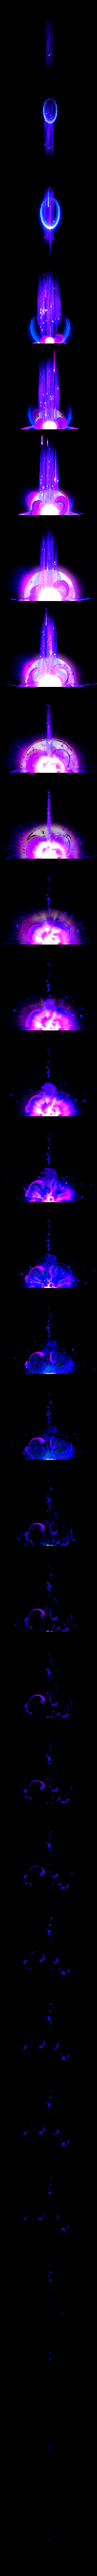
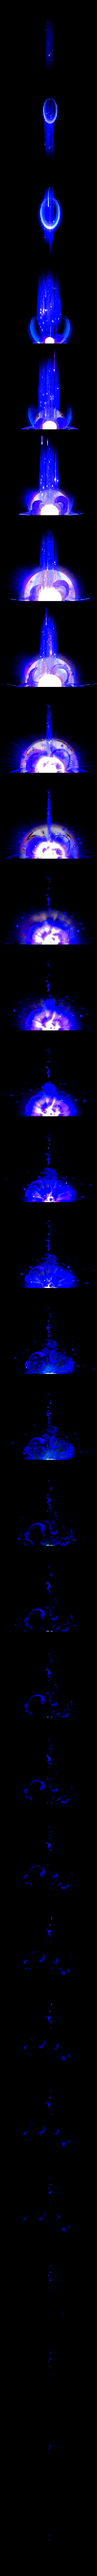
edits

Changed region(s): [[0.15, 0.0, 0.87, 0.5302]]

diff --git a/Content/Areas/Tundra/Abyss/BossesAB/VerlianSingularity/VerlianSingularity.cs b/Content/Areas/Tundra/Abyss/BossesAB/VerlianSingularity/VerlianSingularity.cs
@@ -8,6 +8,7 @@ using Stellamod.Core;
 using Stellamod.Core.Camera;
 using Stellamod.Core.Particles;
 using Stellamod.Core.Pixelation;
+using Stellamod.Core.Rendering.RTs;
 using Stellamod.Helpers;
 using Stellamod.Projectiles.Wings;
 using Stellamod.Skies;
@@ -223,8 +224,10 @@ namespace Stellamod.Content.Areas.Tundra.Abyss.BossesAB.VerlianSingularity
         }
 
         private int ShootingStarDamage => 15;
-        private int SpiralStarDamage => 11;
-        private int SingularityBoom => 32;
+        private int SpiralStarDamage => 14;
+        private int SingularityBoom => 46;
+        private int MiniSingularityBoom => 22;
+
         private int BlackLightningDamage => 20;
         private int BerserkLaserDamage => 50;
 
@@ -306,7 +309,15 @@ namespace Stellamod.Content.Areas.Tundra.Abyss.BossesAB.VerlianSingularity
                     SwitchState(AIState.Despawn);
                 }
             }
-            CameraTargetSystem.AddTarget(Vector2.Lerp(Main.LocalPlayer.Center, NPC.Center, 0.5f));
+            if(State == AIState.Death)
+            {
+                CameraTargetSystem.AddTarget(NPC.Center);
+            }
+            else
+            {
+                CameraTargetSystem.AddTarget(Vector2.Lerp(Main.LocalPlayer.Center, NPC.Center, 0.5f));
+            }
+  
             _spinTimer++;
             if (_starField)
             {
@@ -530,7 +541,7 @@ namespace Stellamod.Content.Areas.Tundra.Abyss.BossesAB.VerlianSingularity
                 if (MultiplayerHelper.IsHost)
                 {
                     Projectile.NewProjectile(NPC.GetSource_FromThis(), NPC.Center, Vector2.Zero,
-                        ModContent.ProjectileType<SingularityBoom>(), SingularityBoom, 2, Main.myPlayer);
+                        ModContent.ProjectileType<SingularityBoom>(), 0, 2, Main.myPlayer);
                 }
 
                 if (MultiplayerHelper.IsHost)
@@ -1308,25 +1319,57 @@ namespace Stellamod.Content.Areas.Tundra.Abyss.BossesAB.VerlianSingularity
             }
             if (_starField)
             {
-                PixelationManager.QueueSpritebatchDrawAction(DrawVerlianAura, DrawLayer.OverWater);
+                PixelationManager.QueueSpritebatchDrawAction(DrawVerlianAura, DrawLayer.OverNPCs);
             }
             return false;
         }
      
         private void DrawVerlianAura(SpriteBatch spriteBatch, Vector2 screenPos)
         {
+            RenderTargetHandle maskTarget = RenderTargets.ScreenTarget;
+            spriteBatch.EndOut(out var oldParameters);
+            using(new RenderTargetContext(maskTarget))
+            {
+                //Draw a circle
+                var circlePass = AssetReferences.Effects.Abyss.VerliaAuraFilled.CreatePixelPass();
+                circlePass.Parameters.time = Main.GlobalTimeWrappedHourly;
+                circlePass.Apply();
+                using (new SpritebatchContext(spriteBatch, spriteBatch.Parameters with { effect = circlePass.Shader, matrix = Matrix.identity }))
+                {
+                    SpritebatchDrawer drawer = SpritebatchDrawer.FromTextureAsset(
+                        AssetReferences.Content.Areas.Tundra.Abyss.BossesAB.VerlianSingularity.VerlianAura.Asset, NPC.Center);
+                    drawer.color = Color.Lerp(Main.DiscoColor, Color.White, 0.5f);
+                    drawer.scale *= 2.9f;
+                    drawer.rotation = Main.GlobalTimeWrappedHourly * 0.3f;
+                    Main.spriteBatch.Draw(drawer);
+                }
+            }
+
+            var mistPass = AssetReferences.Effects.Abyss.VerlianMist.CreatePixelPass();
+            var cloudSampler = new HlslSampler();
+            cloudSampler.Sampler = SamplerState.LinearWrap;
+            cloudSampler.Texture = AssetReferences.Assets.NoiseTextures.Clouds6.Asset.Value;
+            mistPass.Parameters.cloudSampler = cloudSampler;
+            mistPass.Parameters.time = Main.GlobalTimeWrappedHourly;
+            mistPass.Apply();
+            using(new SpritebatchContext(spriteBatch, oldParameters with { effect = mistPass.Shader }))
+            {
+                spriteBatch.Draw(maskTarget, Vector2.Zero, Color.White);
+            }
+
             var pass = AssetReferences.Effects.Abyss.VerlianAura.CreatePixelPass();
             pass.Parameters.time = Main.GlobalTimeWrappedHourly;
             pass.Apply();
-            using(new SpritebatchContext(spriteBatch, spriteBatch.Parameters with { effect = pass.Shader }))
+            using(new SpritebatchContext(spriteBatch, oldParameters with { effect = pass.Shader }))
             {
                 SpritebatchDrawer drawer = SpritebatchDrawer.FromTextureAsset(
                     AssetReferences.Content.Areas.Tundra.Abyss.BossesAB.VerlianSingularity.VerlianAura.Asset, NPC.Center);
-                drawer.color = Color.White;
+                drawer.color = Color.Lerp(Main.DiscoColor, Color.White, 0.5f);
                 drawer.scale *= 2.9f;
                 drawer.rotation = Main.GlobalTimeWrappedHourly * 0.3f;
                 Main.spriteBatch.Draw(drawer);
             }
+            spriteBatch.Begin(oldParameters);
         }
         private void DrawIncresionDiskBottom(SpriteBatch spriteBatch, Vector2 screenPos, Color drawColor)
         {

diff --git a/Content/Areas/Tundra/Abyss/WeaponsAB/SingularDive.cs b/Content/Areas/Tundra/Abyss/WeaponsAB/SingularDive.cs
@@ -21,11 +21,11 @@ public class SingularDive : BaseSwingItemV2
     public override void SetDefaults2()
     {
         base.SetDefaults2();
-        Item.damage = 22;
+        Item.damage = 27;
         Item.shoot = ModContent.ProjectileType<SingularDiveSlash>();
         staminaProjectileShoot = ModContent.ProjectileType<SingularDiveDive>();
         meleeWeaponType = MeleeWeaponType.Greatsword;
-        staminaCost = 3;
+        staminaCost = 2;
         staminaDamageMultiplier = 5;
     }
 
@@ -288,6 +288,7 @@ public class SingularDiveSlash : BaseSwingProjectileV2
         base.DefineCombo();
         SwingV2Helper.AddGreatswordSwingStyle3(this);
         hitStopTime = EXTRA_UPDATE_COUNT * 8;
+        trailOffsetOverride = 2f;
     }
 
     public override void DrawSwingTrail(ref Color lightColor, Vector2[] swingTrailCache)

diff --git a/Content/Areas/Tundra/Abyss/BossesAB/RoyalStar/WarriorSTARR.cs b/Content/Areas/Tundra/Abyss/BossesAB/RoyalStar/WarriorSTARR.cs
@@ -148,6 +148,7 @@ public partial class WarriorSTARR : ScarletBoss, IDrawToRenderTarget
                 _patternBackingFieldp2.AddPattern(AIState.RockSpikeRun, 1.0f);
                 _patternBackingFieldp2.AddPattern(AIState.AnkleBreakerMaybe, 1.0f);
                 _patternBackingFieldp2.AddPattern(AIState.CommandGrab, 1.0f);
+                _patternBackingFieldp2.QueueSetPattern(AIState.CommandGrab);
             }
             return _patternBackingFieldp2;
         }
@@ -190,7 +191,7 @@ public partial class WarriorSTARR : ScarletBoss, IDrawToRenderTarget
         base.SetDefaults();
         NPC.width = 80;
         NPC.height = 96;
-        NPC.damage = 100;
+        NPC.damage = 1;
         NPC.defense = 23;
         NPC.lifeMax = 22000;
 

diff --git a/Content/Areas/Tundra/Abyss/BossesAB/RoyalStar/Projectiles/GOTYOU.cs b/Content/Areas/Tundra/Abyss/BossesAB/RoyalStar/Projectiles/GOTYOU.cs
@@ -1,4 +1,5 @@
 using Stellamod.Common.Particles;
+using Stellamod.Content.Buffs;
 using Stellamod.Content.Rendering.GenericEffects;
 using Stellamod.Core.Particles;
 using Stellamod.Core.Pixelation;
@@ -10,6 +11,7 @@ using Terraria.ID;
 using Terraria.ModLoader;
 
 namespace Stellamod.Content.Areas.Tundra.Abyss.BossesAB.RoyalStar.Projectiles;
+
 public class GotYouPlayer : ModPlayer
 {
     public Vector2? grabPosition;
@@ -20,6 +22,7 @@ public class GotYouPlayer : ModPlayer
         if (grabPosition.HasValue)
         {
             Player.velocity = grabPosition.Value - Player.Center;
+            Player.AddBuff(ModContent.BuffType<Stunlocked>(), 60);
             grabPosition = null;
         }
         float diff = grabRotation - 0.01f;

diff --git a/Content/Areas/Tundra/Abyss/BossesAB/VerlianSingularity/Projectiles/SpiralFallingStar.cs b/Content/Areas/Tundra/Abyss/BossesAB/VerlianSingularity/Projectiles/SpiralFallingStar.cs
@@ -136,7 +136,7 @@ namespace Stellamod.Content.Areas.Tundra.Abyss.BossesAB.VerlianSingularity.Proje
             Vector2 drawOrigin = drawFrame.Size() / 2;
             float scale = Projectile.scale * _scale * 0.3f;
             float rotation = Projectile.rotation;
-            Color drawcolor = Color.Lerp(Color.White, Color.Red, ExtraMath.Osc(0f, 1f, speed: 12)).MultiplyRGB(lightColor);
+            Color drawcolor = Color.Lerp(Color.Red, Color.SkyBlue, ExtraMath.Osc(0f, 1f, speed: 12));
             drawcolor.A = 0;
             spriteBatch.Draw(texture, drawPos, drawFrame, drawcolor, rotation, drawOrigin, scale, spriteEffects, 0);
         }

diff --git a/Items/Accessories/Players/DashPlayer.cs b/Items/Accessories/Players/DashPlayer.cs
@@ -3,6 +3,7 @@ using Stellamod.Assets;
 using Stellamod.Common.Shaders;
 using Stellamod.Content.Areas.Cinderspark.AccCS;
 using Stellamod.Content.Areas.Tundra.MoonspiralTower.AccMT;
+using Stellamod.Content.Buffs;
 using Stellamod.Core.Pixelation;
 using Stellamod.Helpers;
 using Stellamod.Visual.Particles;
@@ -299,6 +300,11 @@ namespace Stellamod.Items.Accessories.Players
                 Player.velocity = newVelocity;
             }
 
+            if (Player.HasBuff<Stunlocked>())
+            {
+                DashCount = 0;
+          
+            }
             if (DashDelay > 0)
             {
                 DashDelay--;

diff --git a/Content/Buffs/Stunlocked.cs b/Content/Buffs/Stunlocked.cs
@@ -1,0 +1,23 @@
+using System;
+using System.Collections.Generic;
+using System.Linq;
+using System.Text;
+using System.Threading.Tasks;
+using Terraria;
+using Terraria.ModLoader;
+
+namespace Stellamod.Content.Buffs;
+
+public class Stunlocked : ModBuff
+{
+    public override void SetStaticDefaults()
+    {
+        base.SetStaticDefaults();
+        Main.debuff[Type] = true;
+    }
+    
+    public override void Update(Player player, ref int buffIndex)
+    {
+        base.Update(player, ref buffIndex);
+    }
+}

diff --git a/Content/Areas/Tundra/Abyss/BossesAB/RoyalStar/WarriorSTARR.CommandGrab.cs b/Content/Areas/Tundra/Abyss/BossesAB/RoyalStar/WarriorSTARR.CommandGrab.cs
@@ -14,8 +14,7 @@ public partial class WarriorSTARR
 {
     private ref Vector2 StartDashPosition => ref _vector1;
     private ref Vector2 EndDashPosition => ref _vector2;
-    private float Grab_Start_Time => 60;
-    private int Got_You_Damage => 70;
+    private int Got_You_Damage => 90;
     private float Got_You_Back_Time => 45;
     private float Fake_Out_Count => 4;
     private float Grab_Time => 39;

diff --git a/Content/Areas/Tundra/Abyss/BossesAB/RoyalStar/Projectiles/STARPUNCH.cs b/Content/Areas/Tundra/Abyss/BossesAB/RoyalStar/Projectiles/STARPUNCH.cs
@@ -44,6 +44,7 @@ public class STARPUNCH : ModProjectile
         Projectile.hostile = true;
         Projectile.penetrate = -1;
         Projectile.timeLeft = 36;
+       
     }
     public override void AI()
     {
